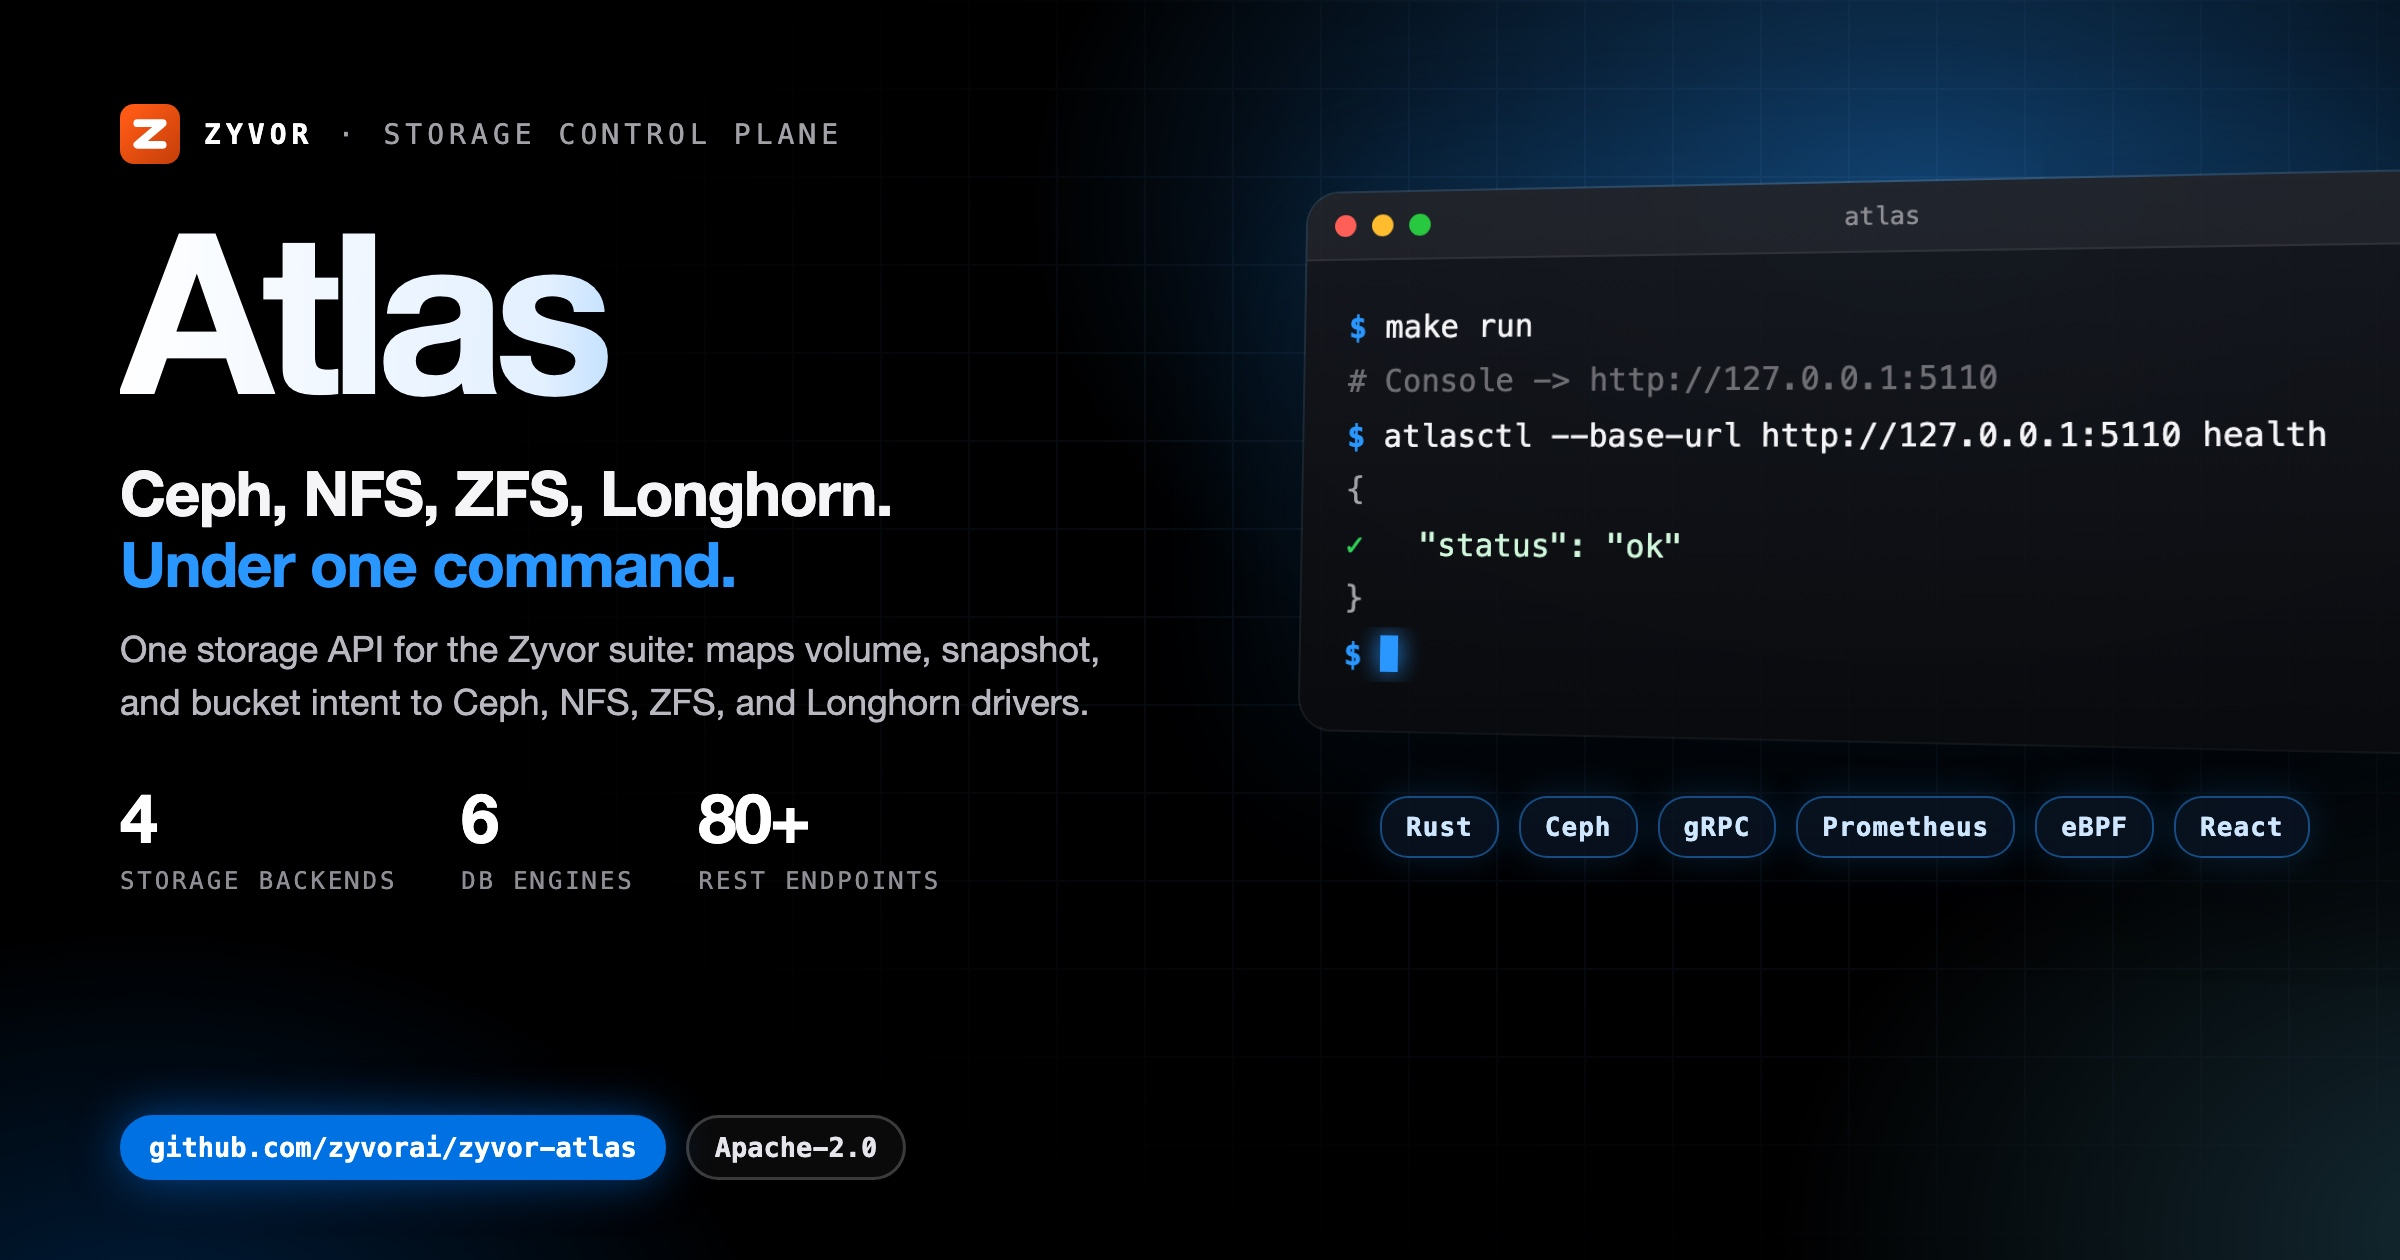
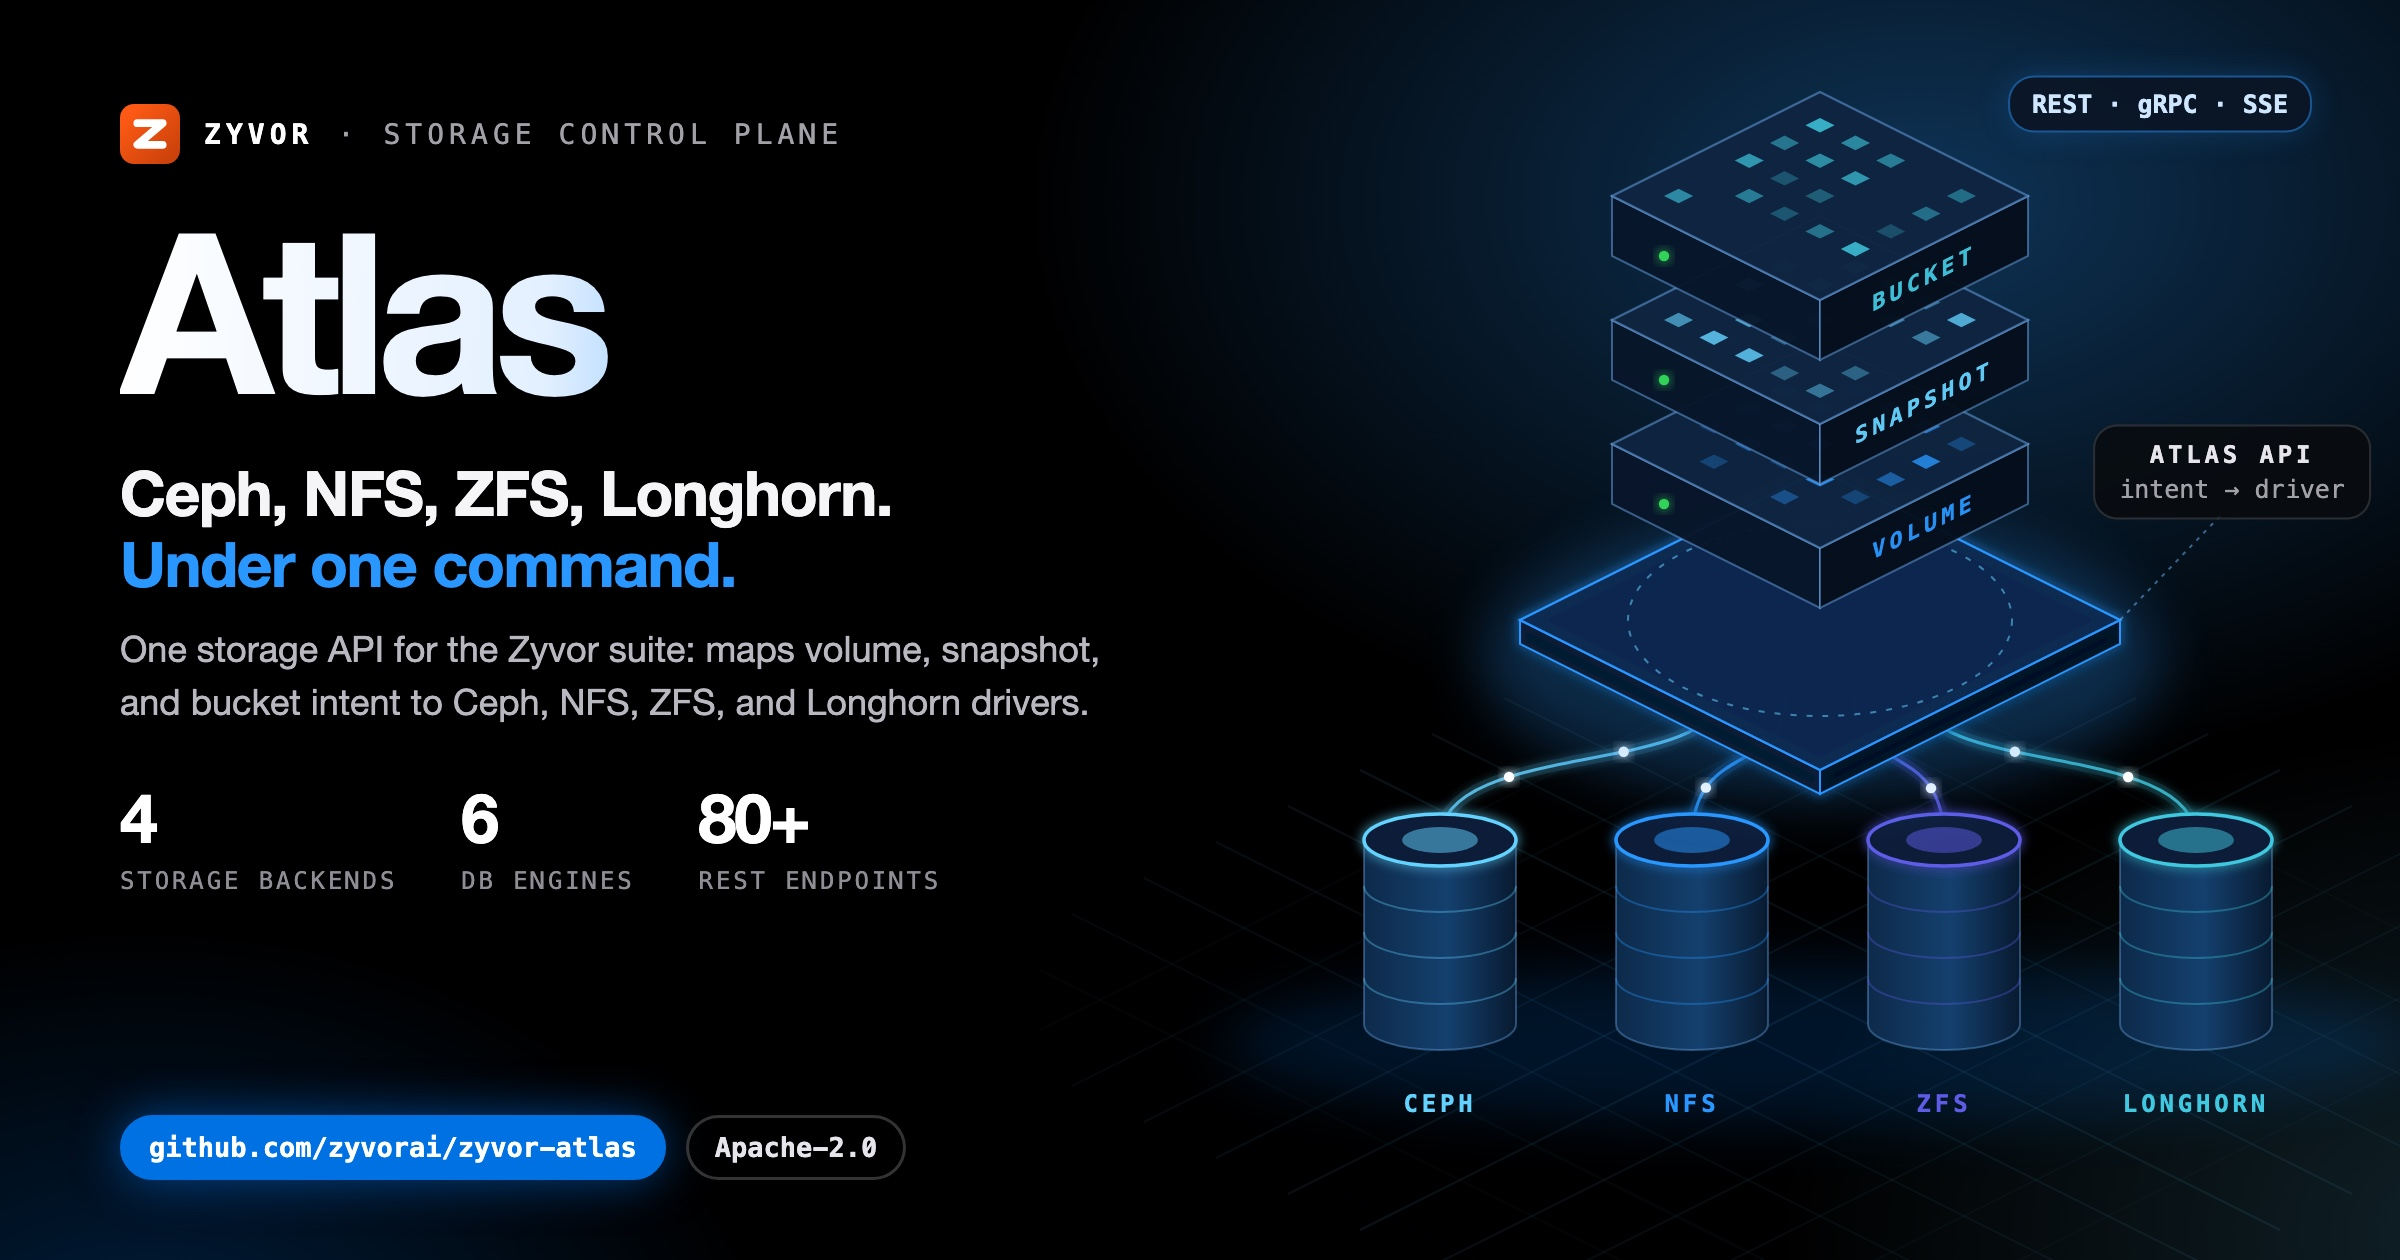
docs(social): unique illustrated hero card
Replace the shared terminal-window art with a motif drawn for this project;
same verified copy and stats on the left.

Changed region(s): [[0.5, 0.0619, 1.0, 0.8976]]

diff --git a/docs/social/atlas-hero-dark.html b/docs/social/atlas-hero-dark.html
@@ -8,58 +8,47 @@
   Build: ./docs/social/build-hero-dark.sh  ->  atlas-hero-dark.jpg (2400x1260)
 -->
 <style>
-  :root { --blue:#0071e3; --signal:#2997ff; --cyan:#64d2ff; --green:#30d158; --amber:#ff9f0a;
+  :root { --blue:#0071e3; --signal:#2997ff; --cyan:#64d2ff; --green:#30d158; --amber:#ff9f0a; --red:#ff453a; --violet:#bf5af2;
     --sans:'SF Pro Display','Helvetica Neue',Helvetica,Arial,sans-serif; --mono:'SF Mono',Menlo,Consolas,monospace; }
   * { box-sizing:border-box; }
   html,body { margin:0; padding:0; }
   body { width:1200px; height:630px; overflow:hidden; color:#f5f5f7; font-family:var(--sans); position:relative; background:#000; }
   .aurora { position:absolute; inset:0;
-    background:radial-gradient(720px 460px at 80% 16%, rgba(41,151,255,.40), transparent 62%),
-               radial-gradient(600px 420px at 104% 98%, rgba(100,210,255,.20), transparent 60%),
+    background:radial-gradient(720px 460px at 80% 16%, rgba(41,151,255,.34), transparent 62%),
+               radial-gradient(600px 420px at 104% 98%, rgba(100,210,255,.16), transparent 60%),
                radial-gradient(520px 380px at 6% 110%, rgba(0,113,227,.28), transparent 60%); }
-  .grid { position:absolute; inset:0; opacity:.09;
-    background-image:linear-gradient(rgba(120,180,255,.9) 1px,transparent 1px),linear-gradient(90deg,rgba(120,180,255,.9) 1px,transparent 1px);
-    background-size:44px 44px; -webkit-mask-image:radial-gradient(900px 520px at 72% 42%, #000 18%, transparent 75%); }
-  .left { position:absolute; left:60px; top:52px; width:560px; z-index:3; }
+  .copy { position:absolute; left:60px; top:52px; width:560px; z-index:3; }
   .brand { display:flex; align-items:center; gap:12px; font-family:var(--mono); font-size:14px; letter-spacing:.18em; text-transform:uppercase; color:#a1a1a6; }
   .brand b { color:#fff; }
   .word { margin:20px 0 0; font-size:112px; line-height:.95; font-weight:800; letter-spacing:-.05em; white-space:nowrap;
     background:linear-gradient(92deg,#fff 0%,#e3f0ff 38%,var(--signal) 74%,var(--cyan) 100%); -webkit-background-clip:text; background-clip:text; color:transparent; padding-bottom:6px; }
   .tag { margin:14px 0 0; font-size:31px; line-height:1.15; font-weight:700; letter-spacing:-.02em; }
   .tag em { font-style:normal; color:var(--signal); }
-  .lede { margin:12px 0 0; font-size:18px; line-height:1.45; color:#b8b8bf; width:520px; }
+  .lede { margin:12px 0 0; font-size:18px; line-height:1.45; color:#b8b8bf; width:520px; text-shadow:0 1px 12px #000; }
   .stats { margin-top:24px; display:flex; gap:32px; }
   .stat b { display:block; font-size:34px; font-weight:800; letter-spacing:-.03em; color:#fff; }
   .stat span { font-family:var(--mono); font-size:12px; letter-spacing:.12em; text-transform:uppercase; color:#8e8e93; }
   .pill { position:absolute; left:60px; bottom:40px; display:flex; gap:10px; z-index:3; }
-  .pill span { font-family:var(--mono); font-size:13.5px; font-weight:700; padding:7px 13px; border-radius:18px; border:1.5px solid rgba(255,255,255,.2); color:#e5e5ea; background:rgba(255,255,255,.04); }
+  .pill span { font-family:var(--mono); font-size:13.5px; font-weight:700; padding:7px 13px; border-radius:18px; border:1.5px solid rgba(255,255,255,.2); color:#e5e5ea; background:rgba(0,0,0,.6); }
   .pill span.b { background:var(--blue); border-color:var(--blue); color:#fff; box-shadow:0 0 24px rgba(0,113,227,.55); }
-
-  .right { position:absolute; left:652px; top:96px; width:560px; z-index:2; }
-  .win { position:relative; width:560px; border-radius:16px; overflow:hidden; z-index:2;
-    background:linear-gradient(180deg, rgba(22,24,30,.94), rgba(10,11,14,.96));
-    box-shadow:0 50px 100px rgba(0,0,0,.75), 0 0 0 1px rgba(255,255,255,.14), 0 0 90px rgba(41,151,255,.22);
-    transform:perspective(1600px) rotateY(-14deg) rotateX(4deg); transform-origin:left center; }
-  .bar { height:34px; display:flex; align-items:center; gap:8px; padding:0 14px; background:rgba(255,255,255,.05); border-bottom:1px solid rgba(255,255,255,.07); }
-  .bar i { width:11px; height:11px; border-radius:50%; background:#ff5f57; } .bar i:nth-child(2){background:#febc2e} .bar i:nth-child(3){background:#28c840}
-  .bar em { margin-left:auto; margin-right:auto; font-style:normal; font-family:var(--mono); font-size:12px; color:#8e8e93; transform:translateX(-24px); }
-  .term { min-height:214px; padding:20px 22px 24px; font-family:var(--mono); font-size:15.5px; line-height:1.75; }
-  .l { white-space:pre; overflow:hidden; text-overflow:ellipsis; color:#f5f5f7; }
-  .l .p { color:var(--signal); font-weight:700; }
-  .l.out { color:#a1a1a6; }
-  .l.cm { color:#6e6e73; }
-  .l.ok { color:#d1f7dc; } .l.ok span { color:var(--green); font-weight:700; }
-  .l.warn { color:#ffe1b0; } .l.warn span { color:var(--amber); font-weight:700; }
-  .cur { display:inline-block; width:9px; height:18px; background:var(--signal); vertical-align:-3px; box-shadow:0 0 12px var(--signal); }
-  .chips { margin:34px 0 0 38px; width:480px; display:flex; flex-wrap:wrap; gap:10px; position:relative; z-index:3; }
-  .chips span { font-family:var(--mono); font-size:13px; font-weight:700; letter-spacing:.04em; padding:7px 12px; border-radius:14px;
-    color:#cfe6ff; background:rgba(10,20,35,.82); border:1px solid rgba(41,151,255,.45); box-shadow:0 0 18px rgba(41,151,255,.18); }
+  .art { position:absolute; left:520px; top:0; width:680px; height:630px; z-index:2; }
+  .art svg { display:block; }
+  #labels { position:absolute; inset:0; z-index:4; pointer-events:none; }
+  .lbl { position:absolute; font-family:var(--mono); font-size:12.5px; color:#a1a1a6; text-align:center; transform:translate(-50%,-50%); white-space:nowrap; }
+  .lbl b { display:block; font-size:12px; letter-spacing:.16em; text-transform:uppercase; color:#e5e5ea; }
+  .lbl span { display:block; margin-top:3px; }
+  .lbl.box { padding:7px 12px; border-radius:12px; background:rgba(8,10,14,.85); border:1px solid rgba(255,255,255,.14); }
+  .lbl.chip { padding:6px 11px; border-radius:13px; font-size:12.5px; font-weight:700; color:#cfe6ff; background:rgba(10,20,35,.85); border:1px solid rgba(41,151,255,.5); box-shadow:0 0 16px rgba(41,151,255,.2); }
+  .lbl.left { transform:translate(0,-50%); text-align:left; }
+  .lbl.right { transform:translate(-100%,-50%); text-align:right; }
+  .ok { color:var(--green) !important; } .warn { color:var(--amber) !important; } .bad { color:var(--red) !important; } .sig { color:var(--signal) !important; } .cy { color:var(--cyan) !important; } .vi { color:var(--violet) !important; }
 </style>
 </head>
 <body>
 <div class="aurora"></div>
-<div class="grid"></div>
-<div class="left">
+<div class="art"><svg id="art" width="680" height="630" viewBox="0 0 680 630" xmlns="http://www.w3.org/2000/svg"></svg></div>
+<div id="labels"></div>
+<div class="copy">
   <div class="brand"><svg viewBox="0 0 64 64" width="30" height="30" aria-hidden="true"><defs><linearGradient id="zb" x1="8" y1="8" x2="56" y2="56" gradientUnits="userSpaceOnUse"><stop offset="0" stop-color="#ff5a15"/><stop offset="1" stop-color="#cc420a"/></linearGradient></defs><rect width="64" height="64" rx="15" fill="url(#zb)"/><path d="M18.5,20.5 45.5,20.5 18.5,43.5 45.5,43.5" fill="none" stroke="#fff" stroke-width="8.3" stroke-linecap="round" stroke-linejoin="round"/></svg><b>Zyvor</b><span>&middot;</span><span>Storage control plane</span></div>
   <div class="word">Atlas</div>
   <div class="tag">Ceph, NFS, ZFS, Longhorn.<br><em>Under one command.</em></div>
@@ -67,8 +56,108 @@
   <div class="stats"><div class="stat"><b>4</b><span>storage backends</span></div><div class="stat"><b>6</b><span>DB engines</span></div><div class="stat"><b>80+</b><span>REST endpoints</span></div></div>
 </div>
 <div class="pill"><span class="b">github.com/zyvorai/zyvor-atlas</span><span>Apache-2.0</span></div>
-<div class="right"><div class="win"><div class="bar"><i></i><i></i><i></i><em>atlas</em></div>
-<div class="term"><div class="l"><span class="p">$</span> make run</div><div class="l cm"># Console -&gt; http://127.0.0.1:5110</div><div class="l"><span class="p">$</span> atlasctl --base-url http://127.0.0.1:5110 health</div><div class="l out">{</div><div class="l ok"><span>&#10003;</span>   &quot;status&quot;: &quot;ok&quot;</div><div class="l out">}</div><div class="l"><span class="p">$</span> <i class="cur"></i></div></div></div>
-<div class="chips"><span>Rust</span><span>Ceph</span><span>gRPC</span><span>Prometheus</span><span>eBPF</span><span>React</span></div></div>
+<script>
+var Z = (function () {
+  var NS = 'http://www.w3.org/2000/svg', svg = document.getElementById('art'), labels = document.getElementById('labels');
+  var seed = 20261004;
+  function rnd() { seed = (seed * 1103515245 + 12345) % 2147483648; return seed / 2147483648; }
+  function el(tag, a, parent) { var n = document.createElementNS(NS, tag); for (var k in a) n.setAttribute(k, a[k]); (parent || svg).appendChild(n); return n; }
+  function g(attrs) { return el('g', attrs || {}); }
+  function label(x, y, inner, cls, style) { var d = document.createElement('div'); d.className = 'lbl ' + (cls || ''); d.style.left = (520 + x) + 'px'; d.style.top = y + 'px'; if (style) d.setAttribute('style', d.getAttribute('style') + ';' + style); d.innerHTML = inner; labels.appendChild(d); return d; }
+  return { NS: NS, svg: svg, W: 680, H: 630, rnd: rnd, el: el, g: g, label: label,
+    reseed: function (s) { seed = s; },
+    c: { blue: '#0071e3', signal: '#2997ff', cyan: '#64d2ff', green: '#30d158', amber: '#ff9f0a', red: '#ff453a', violet: '#bf5af2', teal: '#40c8e0', indigo: '#5e5ce6', pink: '#ff375f', white: '#f5f5f7', grey: '#8e8e93' } };
+})();
+(function () {
+// Atlas: isometric storage tower. Volume / snapshot / bucket slabs stack on the Atlas API plate,
+// which maps intent down into four driver pillars: Ceph, NFS, ZFS, Longhorn.
+var C = Z.c, X = 390;
+var defs = Z.el('defs', {});
+defs.innerHTML = '<filter id="atGl" x="-50%" y="-50%" width="200%" height="200%"><feGaussianBlur stdDeviation="3" result="b"/><feMerge><feMergeNode in="b"/><feMergeNode in="SourceGraphic"/></feMerge></filter>' +
+  '<filter id="atSf" x="-50%" y="-50%" width="200%" height="200%"><feGaussianBlur stdDeviation="14"/></filter>' +
+  '<linearGradient id="atPil" x1="0" x2="1"><stop offset="0" stop-color="#0d2a4a"/><stop offset=".55" stop-color="#14406e"/><stop offset="1" stop-color="#081a30"/></linearGradient>' +
+  '<linearGradient id="atBeam" x1="0" y1="0" x2="0" y2="1"><stop offset="0" stop-color="#64d2ff" stop-opacity=".9"/><stop offset="1" stop-color="#2997ff" stop-opacity=".15"/></linearGradient>';
+
+function P(a) { return a.map(function (q) { return q[0].toFixed(1) + ',' + q[1].toFixed(1); }).join(' '); }
+// isometric floor grid texture
+var gridG = Z.g({});
+for (var i = -6; i <= 6; i++) {
+  var o = i * 36, fade = (0.09 * (1 - Math.abs(i) / 7)).toFixed(3);
+  Z.el('line', { x1: X + o - 230, y1: 500 - o / 2 - 115, x2: X + o + 230, y2: 500 - o / 2 + 115, stroke: 'rgba(100,210,255,' + fade + ')' }, gridG);
+  Z.el('line', { x1: X + o - 230, y1: 500 + o / 2 + 115, x2: X + o + 230, y2: 500 + o / 2 - 115, stroke: 'rgba(100,210,255,' + fade + ')' }, gridG);
+}
+
+// driver pillars (iso cylinders) in a row
+var drivers = [
+  { n: 'Ceph', s: 'RBD &middot; RGW', x: 200, col: C.cyan },
+  { n: 'NFS', s: 'shared', x: 326, col: C.signal },
+  { n: 'ZFS', s: 'local', x: 452, col: C.indigo },
+  { n: 'Longhorn', s: 'replicated', x: 578, col: C.teal }
+];
+var pTop = 420, pH = 92, pr = 38, pry = 13;
+Z.el('ellipse', { cx: X, cy: pTop + pH + 10, rx: 300, ry: 40, fill: '#0071e3', opacity: .18, filter: 'url(#atSf)' });
+
+// mapping beams from plate to pillars (behind pillars)
+var plateY = 330;
+drivers.forEach(function (d, k) {
+  var sx = X + (k - 1.5) * 34, sy = plateY + 18;
+  var path = 'M' + sx + ',' + sy + ' C' + sx + ',' + (sy + 40) + ' ' + d.x + ',' + (pTop - 50) + ' ' + d.x + ',' + pTop;
+  Z.el('path', { d: path, fill: 'none', stroke: d.col, 'stroke-width': 6, opacity: .12 });
+  Z.el('path', { d: path, fill: 'none', stroke: d.col, 'stroke-width': 1.6, opacity: .85, filter: 'url(#atGl)' });
+  var tp = Z.el('path', { d: path, fill: 'none', stroke: 'none' }), L = tp.getTotalLength();
+  [0.35, 0.7].forEach(function (f) { var q = tp.getPointAtLength(L * f); Z.el('circle', { cx: q.x, cy: q.y, r: 2.6, fill: '#fff', filter: 'url(#atGl)' }); });
+});
+drivers.forEach(function (d) {
+  var x = d.x;
+  Z.el('path', { d: 'M' + (x - pr) + ',' + pTop + ' L' + (x - pr) + ',' + (pTop + pH) + ' A' + pr + ',' + pry + ' 0 0 0 ' + (x + pr) + ',' + (pTop + pH) + ' L' + (x + pr) + ',' + pTop + 'Z', fill: 'url(#atPil)', stroke: 'rgba(120,185,255,.35)', 'stroke-width': 1 });
+  for (var r = 1; r <= 3; r++) {
+    var yy = pTop + r * pH / 4;
+    Z.el('path', { d: 'M' + (x - pr) + ',' + yy + ' A' + pr + ',' + pry + ' 0 0 0 ' + (x + pr) + ',' + yy, fill: 'none', stroke: d.col, 'stroke-width': 1, opacity: .35 });
+  }
+  Z.el('ellipse', { cx: x, cy: pTop, rx: pr, ry: pry, fill: '#0a1f38', stroke: d.col, 'stroke-width': 1.8, filter: 'url(#atGl)' });
+  Z.el('ellipse', { cx: x, cy: pTop, rx: pr * .5, ry: pry * .5, fill: d.col, opacity: .5 });
+  Z.label(x, pTop + pH + 40, '<b style="color:' + d.col + '">' + d.n + '</b>');
+});
+
+// Atlas API plate
+function slab(cy, w, h, top, side1, side2, stroke) {
+  var g = Z.g({});
+  Z.el('polygon', { points: P([[X - w, cy], [X, cy + w / 2], [X, cy + w / 2 + h], [X - w, cy + h]]), fill: side1, stroke: stroke, 'stroke-width': 1 }, g);
+  Z.el('polygon', { points: P([[X + w, cy], [X, cy + w / 2], [X, cy + w / 2 + h], [X + w, cy + h]]), fill: side2, stroke: stroke, 'stroke-width': 1 }, g);
+  Z.el('polygon', { points: P([[X, cy - w / 2], [X + w, cy], [X, cy + w / 2], [X - w, cy]]), fill: top, stroke: stroke, 'stroke-width': 1.2 }, g);
+  return g;
+}
+Z.el('ellipse', { cx: X, cy: plateY, rx: 170, ry: 70, fill: '#2997ff', opacity: .25, filter: 'url(#atSf)' });
+slab(plateY - 20, 150, 12, 'rgba(10,40,80,.95)', 'rgba(6,24,48,.95)', 'rgba(4,16,34,.95)', C.signal).setAttribute('filter', 'url(#atGl)');
+Z.el('ellipse', { cx: X, cy: plateY - 20, rx: 96, ry: 48, fill: 'none', stroke: 'rgba(100,210,255,.55)', 'stroke-dasharray': '3 5' });
+
+// intent slabs
+var tiers = [
+  { n: 'bucket', y: 98, col: '#40c8e0' },
+  { n: 'snapshot', y: 160, col: '#64d2ff' },
+  { n: 'volume', y: 222, col: '#2997ff' }
+];
+for (var k = tiers.length - 1; k >= 0; k--) {
+  var T = tiers[k], w = 104, h = 30;
+  slab(T.y, w, h, 'rgba(14,36,64,.97)', 'rgba(8,22,42,.97)', 'rgba(5,14,28,.97)', 'rgba(120,185,255,.45)');
+  // data cells on top face
+  for (var a = 0; a < 5; a++) for (var b = 0; b < 5; b++) {
+    if (Z.rnd() < 0.25) continue;
+    var u = (a - 2) * 0.17, v = (b - 2) * 0.17;
+    var cxp = X + (u - v) * w, cyp = T.y + (u + v) * w / 2, s = w * 0.07;
+    Z.el('polygon', { points: P([[cxp, cyp - s / 2], [cxp + s, cyp], [cxp, cyp + s / 2], [cxp - s, cyp]]), fill: T.col, opacity: (0.25 + Z.rnd() * 0.6).toFixed(2) });
+  }
+  // engraved name on the right face
+  var tx = X + w / 2, ty = T.y + w / 4 + h / 2 + 4;
+  var txt = Z.el('text', { x: 0, y: 0, transform: 'matrix(1,-0.5,0,1,' + tx.toFixed(1) + ',' + ty.toFixed(1) + ')', 'text-anchor': 'middle', fill: T.col, 'font-family': 'SF Mono, Menlo, monospace', 'font-size': 11, 'font-weight': 700, 'letter-spacing': '2', opacity: .95 });
+  txt.textContent = T.n.toUpperCase();
+  // status LED on left face
+  Z.el('circle', { cx: X - w * 0.75, cy: T.y + w * 0.125 + h / 2 + 2, r: 2.6, fill: C.green, filter: 'url(#atGl)' });
+}
+Z.label(596, 236, '<b>Atlas API</b><span>intent &rarr; driver</span>', 'box');
+Z.el('line', { x1: 590, y1: 258, x2: X + 150, y2: plateY - 20, stroke: 'rgba(120,185,255,.5)', 'stroke-dasharray': '2 3' });
+Z.label(560, 52, 'REST &middot; gRPC &middot; SSE', 'chip');
+})();
+</script>
 </body>
 </html>
